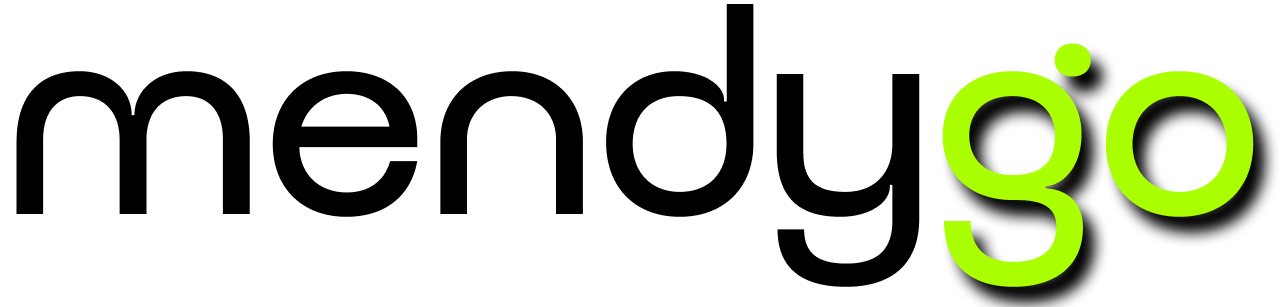
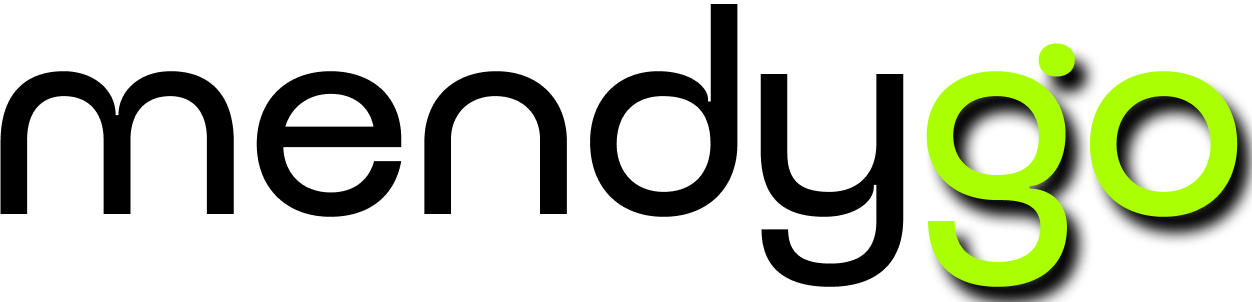
minor positioning tweaks

diff --git a/src/app/aboutus/page.tsx b/src/app/aboutus/page.tsx
@@ -61,7 +61,7 @@ function FeatureCard({ imgSrc, title, description, reverse }: FeatureCardProps) 
         />
       </div>
       <div className="space-y-3 p-6 rounded-xl  backdrop-blur  border-gray-200/70 dark:border-gray-800">
-        <h3 className="text-xl font-semibold">{title}</h3>
+        <h3 className="text-xl dark:text-white/70 font-semibold">{title}</h3>
         <p className="dark:text-white/70 text-base leading-relaxed">{description}</p>
       </div>
     </div>
@@ -80,7 +80,7 @@ export default function AboutPage() {
         const closeModal = useCallback(() => setIsModalOpen(false), []);
     
   return (
-    <div className="min-h-screen md:px-16 py-10 bg-white text-black dark:bg-black  px-10">
+    <div className="min-h-screen md:px-16 py-10 bg-white text-black dark:text-white/70 dark:bg-black  px-10">
       {/* Hero Section */}
       <div className="text-center space-y-4 mb-16 mt-20">
         <h1 className="text-3xl sm:text-4xl md:text-5xl lg:text-5xl z-3 text-center font-bold leading-[1.3] tracking-tight bg-gradient-to-b from-gray-950 via-gray-800 to-gray-500 bg-clip-text text-transparent drop-shadow-sm dark:from-gray-200 dark:via-gray-400 dark:to-gray-700 dark:drop-shadow-lg mt-2">
@@ -182,7 +182,7 @@ export default function AboutPage() {
 
           <section className="bg-gradient-to-br from-[#9FFB1E]/30 via-[#9FFB1E]/10 to-transparent max-w-5xl mx-auto rounded-xl mt-10 dark:text-slate-100 py-16">
           <div className="max-w-4xl mx-auto px-6 text-center">
-            <h3 className="text-3xl font-bold dark:text-gray-300">Ready to Optimize Your Operations?</h3>
+            <h3 className="text-3xl font-bold text-black dark:text-gray-300">Ready to Optimize Your Operations?</h3>
             <p className="mt-4 dark:text-slate-300 text-sm md:text-base">Reach out for a tailored walkthrough and discover how Mendygo can transform your facility.</p>
             <div className="mt-10 flex flex-wrap gap-4 justify-center">
               <div onClick={openModal} className="px-8 py-3 rounded-full bg-[#9FFB1E] text-black font-semibold shadow hover:shadow-md transition text-sm md:text-base">Request Demo</div>

diff --git a/src/components/ui/resizable-navbar.tsx b/src/components/ui/resizable-navbar.tsx
@@ -156,7 +156,7 @@ export const NavItems = ({ items, className, onItemClick, onScheduleDemo, visibl
                                 exit={{ opacity: 0, y: 10 }}
                                 transition={{ duration: 0.2, ease: "easeOut" }}
                                 // --- FIX 1 & 2: Added theme support and corrected padding ---
-                                className="absolute top-full left-1/2 -translate-x-1/2 w-auto mt-1 rounded-xl border border-neutral-200 dark:border-neutral-800 bg-white dark:bg-[#141415] p-8 shadow-lg"
+                                className="absolute top-full left-1/2 -translate-x-1/2 w-auto mt-2 rounded-xl border border-neutral-200 dark:border-neutral-800 bg-white dark:bg-[#141415] p-8 shadow-lg"
                             >
                                 <div className="flex justify-center gap-x-12">
                                     {item.dropdown.columns.map((column, colIdx) => (
@@ -269,7 +269,7 @@ export const NavbarLogo = () => (
         src={mendygoDark}
         alt="mendygo light mode"
         className="object-contain h-8 w-auto dark:hidden"
-        style={{ height: '2rem', width: 'auto' }}
+        style={{ height: '2.1rem', width: 'auto' }}
         // width={120}
         // height={48}
         priority
